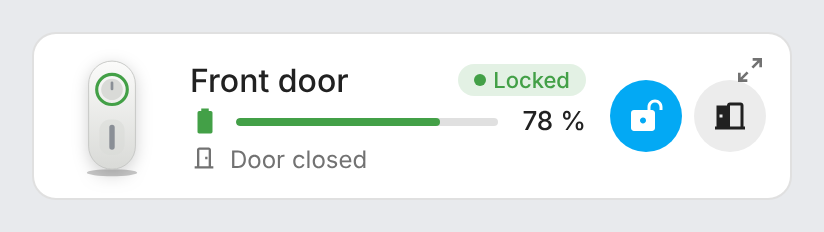
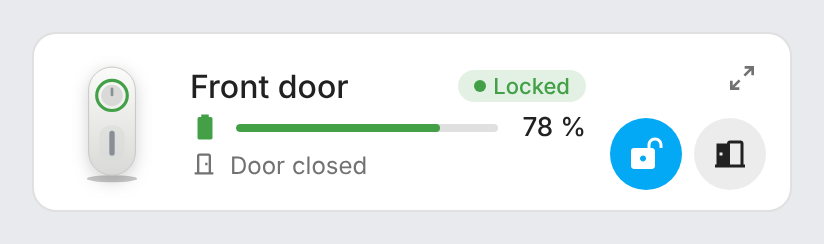
Mini card: separate detail button from controls (1.2.2)
Claude-Session: https://claude.ai/code/session_01D5Bd6TRY4BTcvXm4WheNsK

diff --git a/src/smartlock-card.js b/src/smartlock-card.js
@@ -1244,8 +1244,9 @@ class SmartLockCard extends SmartLockBase {
 // ---------------------------------------------------------------------------
 
 const MINI_STYLE = `
-  .mini { position: relative; display: flex; align-items: center; gap: 12px; padding: 10px 12px; }
-  .mini .zoom { position: absolute; top: 6px; right: 8px; margin: 0; }
+  .mini { display: flex; align-items: center; gap: 12px; padding: 10px 12px; }
+  .mini .right { flex: none; display: flex; flex-direction: column; align-items: flex-end; gap: 8px; }
+  .mini .right .zoom { margin: 0; }
   .mini .picture { width: 54px; height: 62px; flex: none; }
   .mini .picture img { filter: drop-shadow(0 2px 4px rgba(0,0,0,.18)); }
   .mini .info { flex: 1; min-width: 0; display: flex; flex-direction: column; gap: 3px; }
@@ -1340,8 +1341,11 @@ class SmartLockMiniCard extends SmartLockCard {
             ${this._batteryLine(this._battery(m))}
             ${secondary}
           </div>
-          ${controls ? `<div class="controls">${controls}</div>` : ""}
-          ${this._zoomButton()}
+          ${
+            controls || this._zoomButton()
+              ? `<div class="right">${this._zoomButton()}${controls ? `<div class="controls">${controls}</div>` : ""}</div>`
+              : ""
+          }
         </div>
       </ha-card>`;
   }

diff --git a/CHANGELOG.md b/CHANGELOG.md
@@ -1,5 +1,10 @@
 # Changelog
 
+## 1.2.2
+
+### Fixes
+- Mini card: the lock / unlock button was too close to the detail button. The detail button now sits above the controls in a right-hand column, with a clear gap.
+
 ## 1.2.1
 
 ### Fixes
